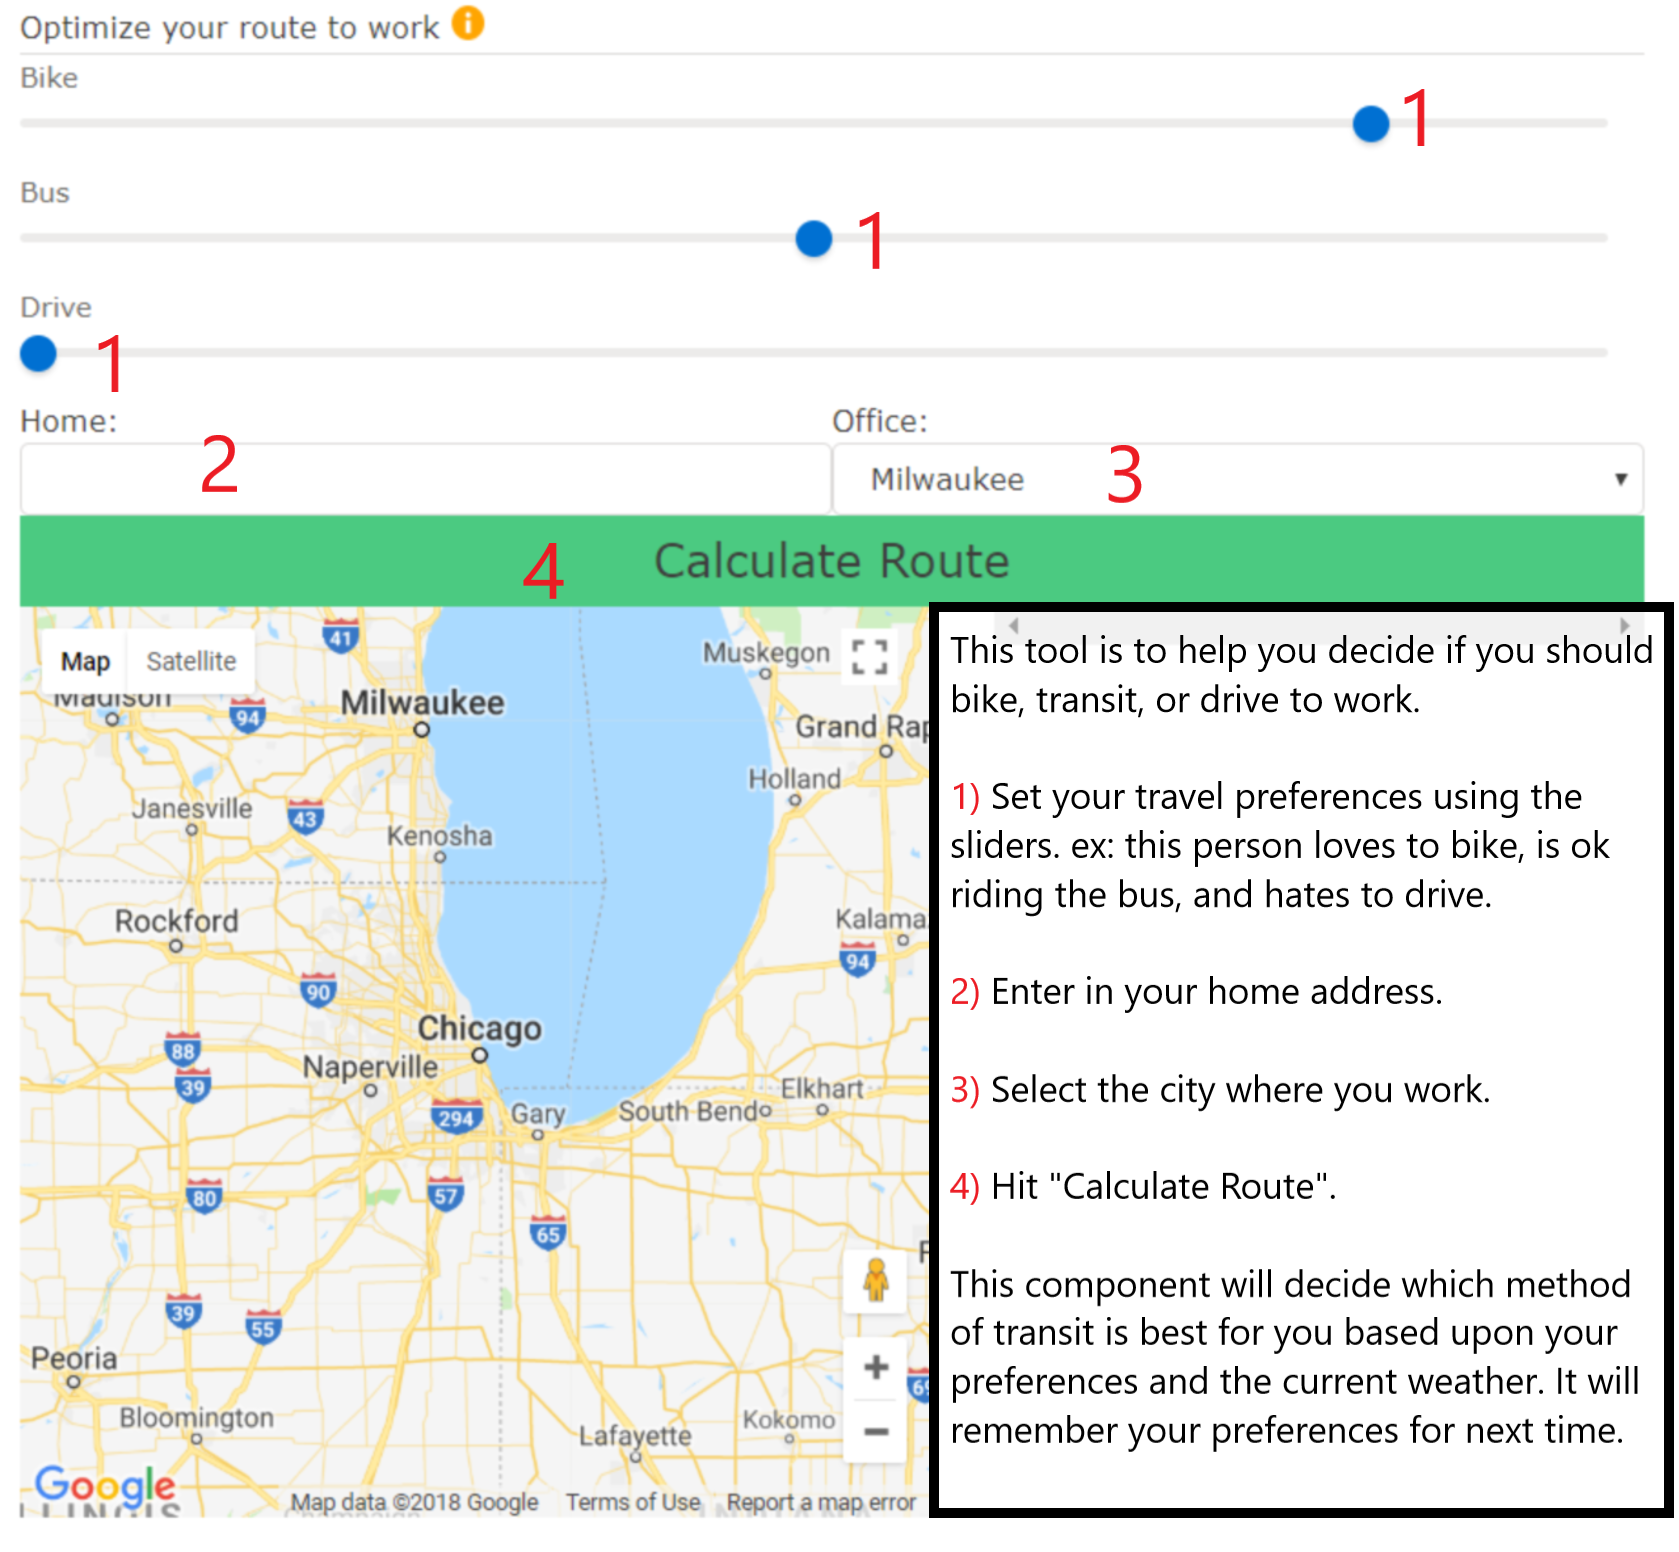
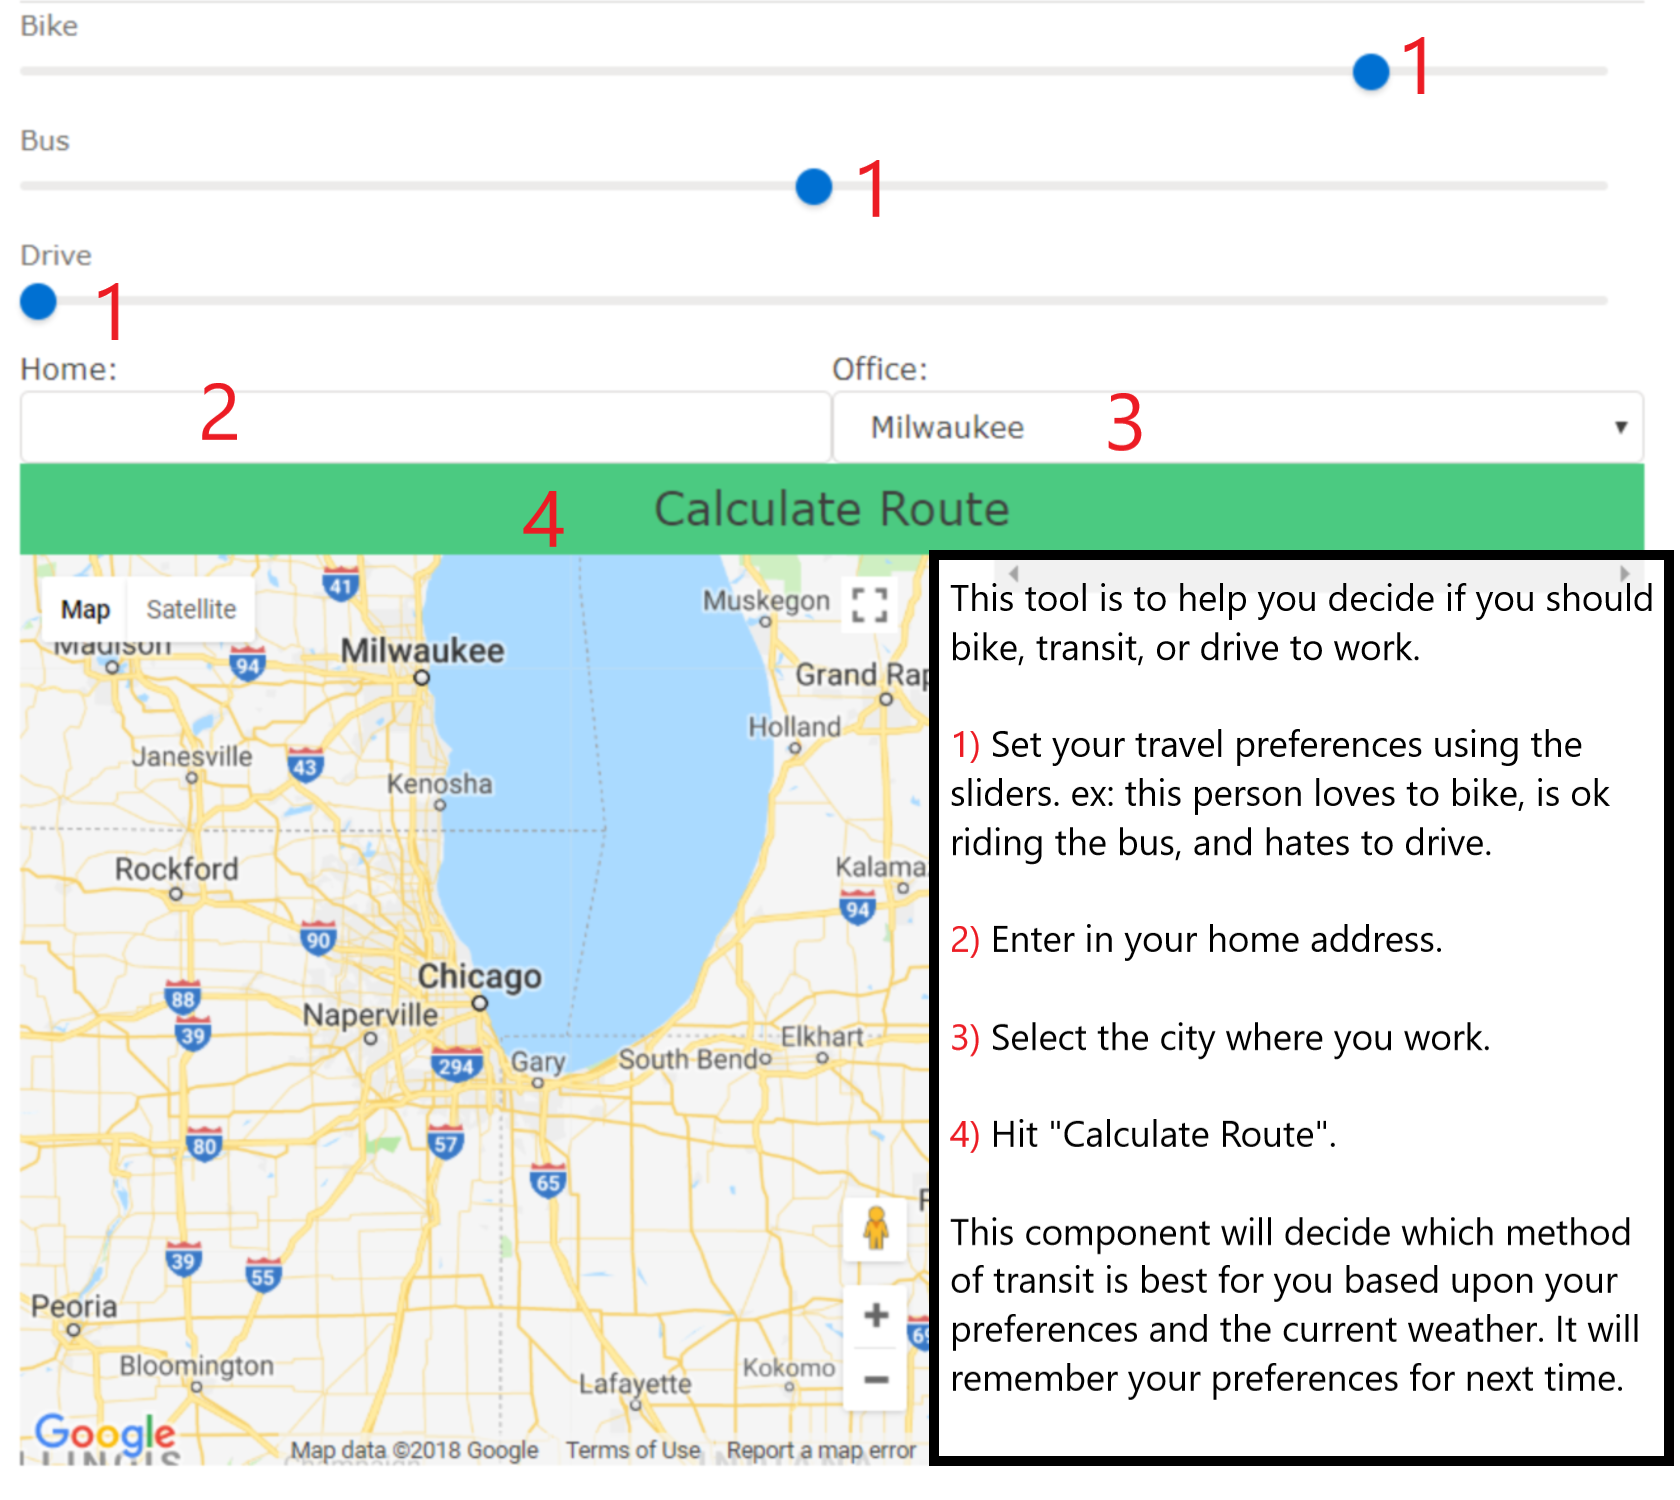
fixed overflow issue, other CSS, cleaned HTML/JS

diff --git a/script.js b/script.js
@@ -7,7 +7,6 @@ function calculateAndDisplayRoute(directionsService, directionsDisplay, originLa
     var destination = getDestination(office)
     var destLatLng = destination.split(",");
     var travelMode = calculateTravelMode(office);
-    console.log(travelMode);
     directionsService.route({
         origin: origin,
         destination: new google.maps.LatLng(destLatLng[0], destLatLng[1]),
@@ -53,7 +52,7 @@ function calculateTravelMode(destination){
       busPoints -= 10;
       break;
     case (element.startsWith('3')): //drizzle
-      bikePoints -=10;
+      bikePoints -=20;
       break;
     case (element.startsWith('5')): //rain
       bikePoints -=30;
@@ -81,13 +80,6 @@ function calculateTravelMode(destination){
     return 'DRIVING';
   } 
 }
-
-document.getElementById('infoIcon').addEventListener('mouseover', function() {
-      document.getElementById('travelInstructions').style.zIndex = "2";
-  });
-document.getElementById('infoIcon').addEventListener('mouseout', function() {
-      document.getElementById('travelInstructions').style.zIndex = "-1";
-  });
 
 function geocodeAddress(directionsService, directionsDisplay, geocoder, callback){
     var address = document.getElementById('address').value;
@@ -117,7 +109,7 @@ function getDestination(office){
           destinationLatLng = '43.0332535,-87.9061252';
           break;
         case 'minneapolis':
-          destinationLatLng = '44.9762798,-93.2687264';
+          destinationLatLng = '44.97648,-93.268684';
           break;
         case 'dallas':
           destinationLatLng = '32.8090935,-96.8079239';
@@ -147,7 +139,6 @@ function initMap() {
 }
 
 function refineWeatherObj(destination){
-  console.log(weatherObj);
   for(var i=0; i<weatherObj.cnt; i++)
   {
     if(weatherObj.list[i].name.toLowerCase() === destination){
@@ -162,11 +153,7 @@ function storeTravelPreferences(){
   localStorage.setItem("drivePoints", document.getElementById('drive').value);
 }
 
-function storeWeatherJSON(data){
-  weatherObj = data;
-}
-
-//travel preference sliders
+        //travel preference sliders
 $( function() {
     $( "#slider-bike" ).slider({
       orientation: "horizontal",
@@ -209,6 +196,17 @@ $( function() {
     $( "#drive" ).val( $( "#slider-drive" ).slider( "value" ) );
   } );
 
+          //toggle infoIcon hover
+document.getElementById('infoIcon').addEventListener('mouseover', function() {
+      var travelDirections = document.getElementById('travelInstructions');
+      travelDirections.style.zIndex = "2";
+      travelDirections.style.visibility = "visible";
+  });
+document.getElementById('infoIcon').addEventListener('mouseout', function() {
+      var travelDirections = document.getElementById('travelInstructions');
+      travelDirections.style.zIndex = "-1";
+      travelDirections.style.visibility = "hidden";
+  });
 
 //WEATHER SLIDESHOW CARD
 (function getWeather(){
@@ -276,8 +274,8 @@ var slideIndex = 0;
     setTimeout(showSlides, 5000); // Change image every 5 seconds
 })();
 
-function test(){
-var value = localStorage.getItem("bikePoints");
-console.log(value);
+function storeWeatherJSON(data){
+  weatherObj = data;
 }
+
 

diff --git a/index.html b/index.html
@@ -1,11 +1,14 @@
 <!DOCTYPE html>
 <html>
 	<head>
+		<meta http-equiv="X-UA-COmpatible" content="IE=edge">
+		<meta name="viewpoint" content="width=device-width, initial-scale=1">
+		<meta charset="UTF-8">
 		<link rel="stylesheet" type="text/css" href = "styles.css">
-		<!-- <link rel="stylesheet" href="jquery-ui-1.12.1.custom/jquery-ui.css"> -->
 		<link rel="stylesheet" href="LightningDesign/salesforce-lightning-design-system.css">
 		<script src="jquery-ui-1.12.1.custom/external/jquery/jquery.js"></script>
 		<script src="jquery-ui-1.12.1.custom/jquery-ui.min.js"></script>
+		<title>Penrod Weather</title>
 	</head>
 	<body onunload="storeTravelPreferences()">
 		<div class="slds-grid slds-gutters slds-wrap">
@@ -40,7 +43,7 @@
 
 					</div>
 					<br>
-					<div style="text-align:center">
+					<div class="dots">
 					  <span class="dot"></span> 
 					  <span class="dot"></span> 
 					  <span class="dot"></span>
@@ -64,7 +67,6 @@
 								<div id="travelInstructions">
 								  <img src="Images/travelInstructions.png">
 								</div>
-							<!-- <button onclick="test()">TEST</button> -->
 						</div>
 					</div>
 					<div class = "sliders">
@@ -80,7 +82,7 @@
 					  				<input type="range" class="slds-slider__range" id="bike" readonly ">
 					  				<span class="slds-slider__value" aria-hidden="true"></span>
 								</div>
-								<div id="slider-bike" style="height:10px;"></div>
+								<div id="slider-bike"></div>
 							</div>
 							<label class="slds-form-element__label" for="bus">
 							    <span class="slds-slider-label">
@@ -93,7 +95,7 @@
 					  				<input type="range" class="slds-slider__range" id="bus" readonly ">
 					  				<span class="slds-slider__value" aria-hidden="true"></span>
 								</div>
-								<div id="slider-bus" style="height:10px;"></div>
+								<div id="slider-bus"></div>
 							</div>
 							<label class="slds-form-element__label" for="drive">
 							    <span class="slds-slider-label">
@@ -106,7 +108,7 @@
 					  				<input type="range" class="slds-slider__range" id="drive" readonly ">
 					  				<span class="slds-slider__value" aria-hidden="true"></span>
 								</div>
-								<div id="slider-drive" style="height:10px;"></div>
+								<div id="slider-drive"></div>
 							</div>
 						</div>
 					</div>
@@ -126,8 +128,10 @@
 						</div>
 					</div>
 					<button class="slds-button_success" id="submit">Calculate Route</button>
-					<div id="map"></div>
-			    	<div id="directionsPanel"></div>
+					<div class="mapContainer">
+						<div id="map"></div>
+			    		<div id="directionsPanel"></div>
+			    	</div>
 		    	</article>
 			</div>
 

diff --git a/styles.css b/styles.css
@@ -1,15 +1,16 @@
-{box-sizing: border-box;}
 body {
     font-family: Verdana, sans-serif; 
+}
+html {
+    overflow-y: scroll;
 }
 
 /*MAP/TRAVEL CARD STYLES*/
 #directionsPanel{
     display:inline-block;
     float:right;
-    width:40%;
-    max-height: 400px;
-    height: auto;
+    height: 100%;
+    width: 38%;
     overflow-x: scroll;
 }
 #infoIcon{
@@ -19,17 +20,23 @@ body {
 }
 #travelInstructions{
   z-index: -1;
+  visibility: hidden;
   position: absolute;
-  height: 100%;
-  width: 98%;
+  height: inherit;
+  width: inherit;
   padding-top: 20px;
   pointer-events:none;
 }
 #map {
 
-    height: 400px;
-    width: 400px;
+    height: 100%;
+    width: 62%;
     display: inline-block;
+}
+.mapContainer{
+    align-self: center;
+    height: 450px;
+    width: inherit;
 }
 .originDestination{
     display: flex;
@@ -40,12 +47,7 @@ body {
 #routeDescription{
     display: flex;
 }
-.sliders{
-    display: flex;
-}
-.sliders > div{
-    flex: 1;
-}
+
 #submit{
     width:100%;
     height: 40px;
@@ -67,6 +69,9 @@ body {
   display: inline-block;
   transition: background-color 0.6s ease;
 }
+.dots{
+    text-align: center;
+}
 .active {
   background-color: #717171;
 }
@@ -76,31 +81,22 @@ body {
   animation-name: fade;
   animation-duration: 1.5s;
 }
-@-webkit-keyframes fade {
-  from {opacity: .4} 
-  to {opacity: 1}
-}
 @keyframes fade {
   from {opacity: .4} 
   to {opacity: 1}
 }
-img {
-    display: block;
-    margin-left: auto;
-    margin-right: auto;
-    vertical-align: middle;
+.slideImg{
+    height: 50%;
+    width: 99%;
+    overflow: hidden;
 }
-.mySlides {display: none;}
-
-.slideshow-container {
+.slideshow-container { 
   max-width: 1000px;
+  max-height: 1000px;
   position: relative;
   margin: auto;
 }
-.slideImg{
-    height: 50%;
-    width: 100%;
-}
+
 
 .weather{
     font-family: Impact;
